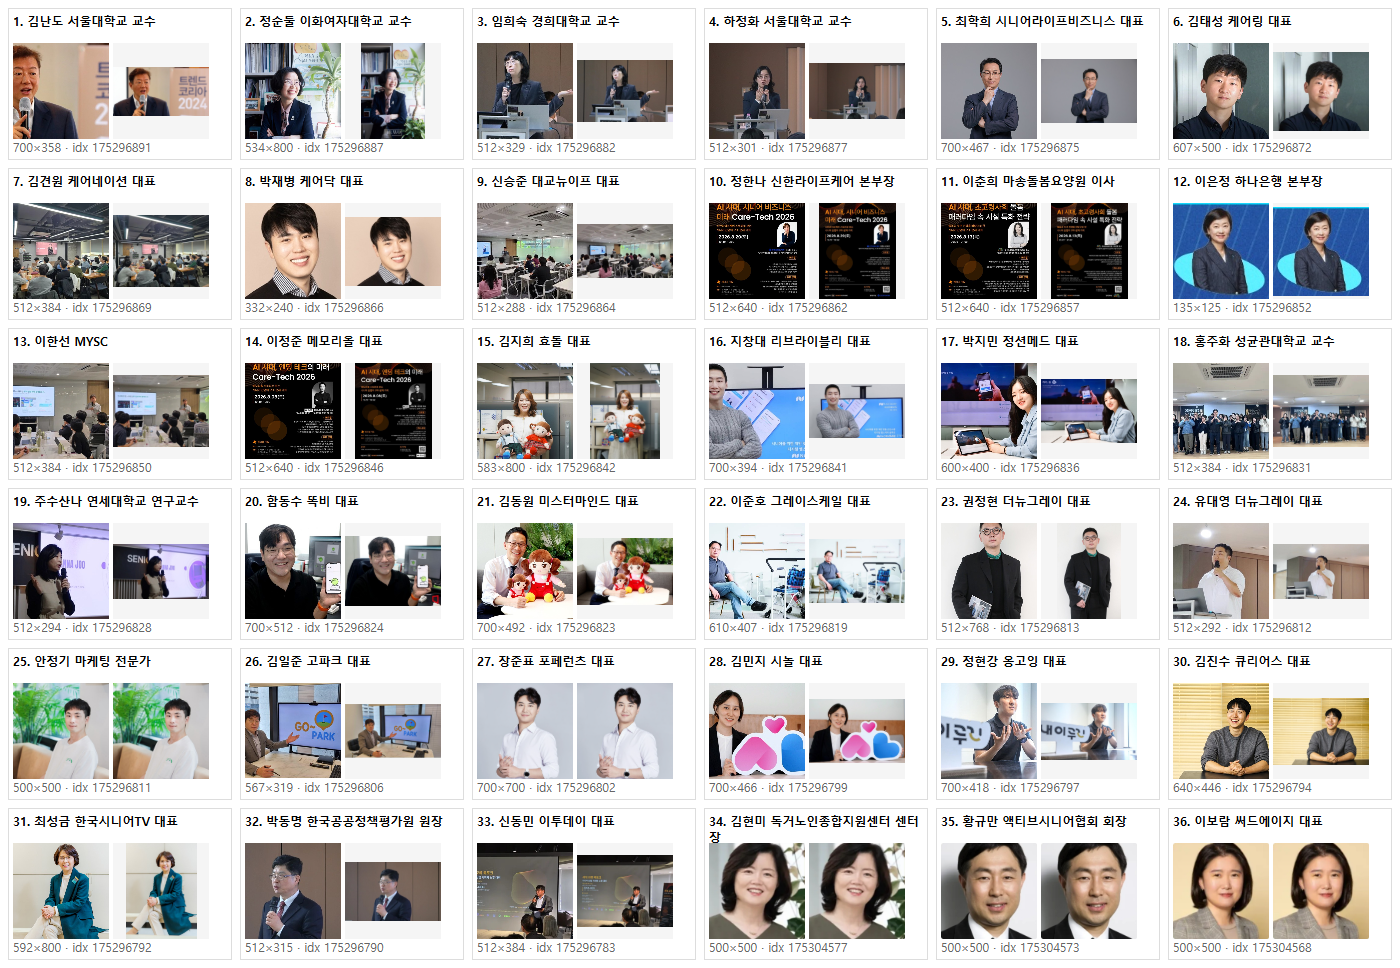
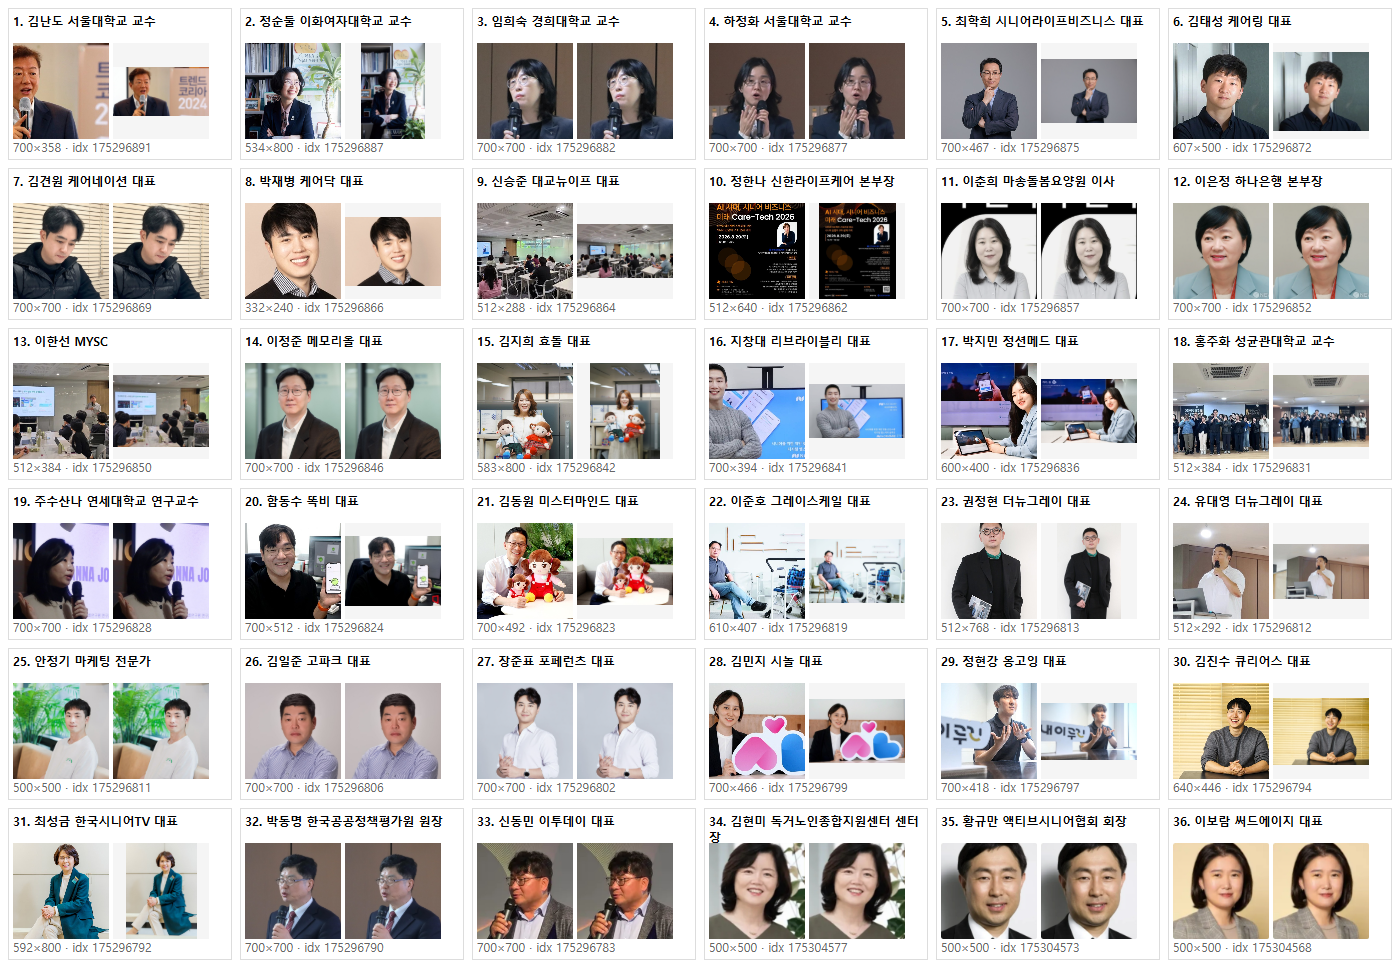
docs: 전문가 사진 12명 교체 결과·백업(이전 대표 이미지)·사진 받아야 할 분

diff --git a/docs/검수/전문가-사진-점검-1102.md b/docs/검수/전문가-사진-점검-1102.md
@@ -1,5 +1,14 @@
 # 전문가 네트워크 사진 점검 (2026-11-02)
 
+## 결과 (11/2 밤 교체 완료)
+- **교체 12명**(관리자 글 수정 — 본문 첫 사진 + 대표 이미지, 회원 알림 없음): 3 임희숙 · 4 하정화 · 7 김견원 · 11 이춘희 · 12 이은정 · 14 이정준 · 19 주수산나 · 26 김일준 · 32 박동명 · 33 신동민 · 41 김두영 · 42 윤희정
+  - 규격: 정사각 800×800, 얼굴 높이 = 사진의 38%, 눈높이 위에서 40%(YuNet 얼굴 찾기) → 목록·홈 썸네일 700×700, 글 보기 800×800, 상품 동그라미 가운데. 원본이 작은 사진(3·4·11·33·42)은 살짝 또렷하게 보정
+  - 확인: 로그아웃 손님 화면 12명 모두 목록 새 썸네일·글 보기 새 사진 1장, 전체 46명 깨짐 0
+  - 되돌리기: `전문가-사진-백업-1102.json`(이전 대표 이미지 경로) · 정리한 사진 원본 `site/assets/experts/{idx}.jpg`
+- **그대로 둠(사장님)**: 1 김난도 · 8 박재병 · 22 이준호 · 24 유대영(더뉴그레이) · 29 정현강
+- **사진 받아야 함(공개된 적당한 인물 사진 없음)**: 9 신승준 · 10 정한나(포스터 그대로) · 13 이한선 · 45 한재근 · 18 홍주화 · 43 박수현 · 44 마석완 · 46 이계원 — 받으면 같은 규격으로 맞춰 교체
+- 더 또렷한 사진을 받으면 좋은 분: 4 하정화 · 33 신동민 · 42 윤희정 · 11 이춘희 · 3 임희숙(행사·포스터에서 잘라 원본이 작음)
+
 로그아웃 손님 화면 `/experts` 기준 46명 전수. 사진이 아예 없거나 깨진 분은 없음(0명). 문제는 **포스터·단체 사진·작은 사진**이 프로필 자리에 들어간 경우.
 
 ## 사진이 보이는 곳과 크기
